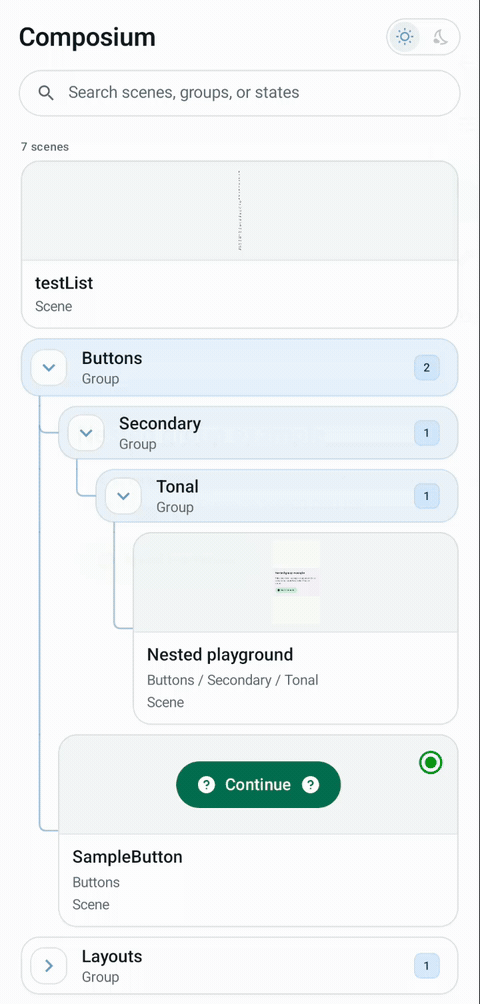
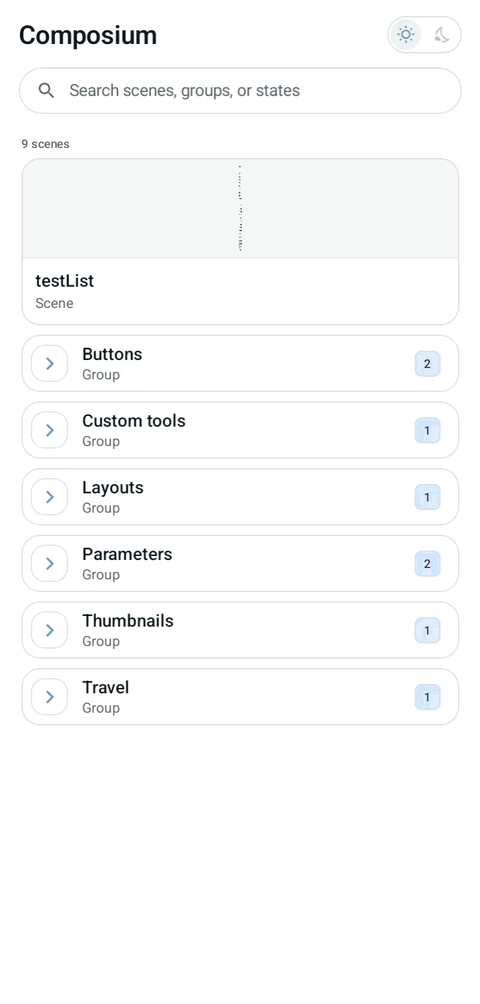
Refresh the README and website demo with the boarding pass scene

diff --git a/README.md b/README.md
@@ -32,7 +32,7 @@ It is useful for:
     <img src="https://github.com/user-attachments/assets/d246e248-bda4-461a-9f2e-1dccd84633a2">
 </p>
 <p align="center">
-    <img src="assets/composium-demo.gif" alt="Composium demo: scene catalog, live parameters, environment controls, floating tools, and eyedropper" width="240">
+    <img src="assets/composium-demo.gif" alt="Opening a boarding pass in Composium, switching from Midnight to Classic, editing the fare, adjusting font size, enabling dark theme, and moving the floating tools" width="240">
 </p>
 
 ## Why Composium
